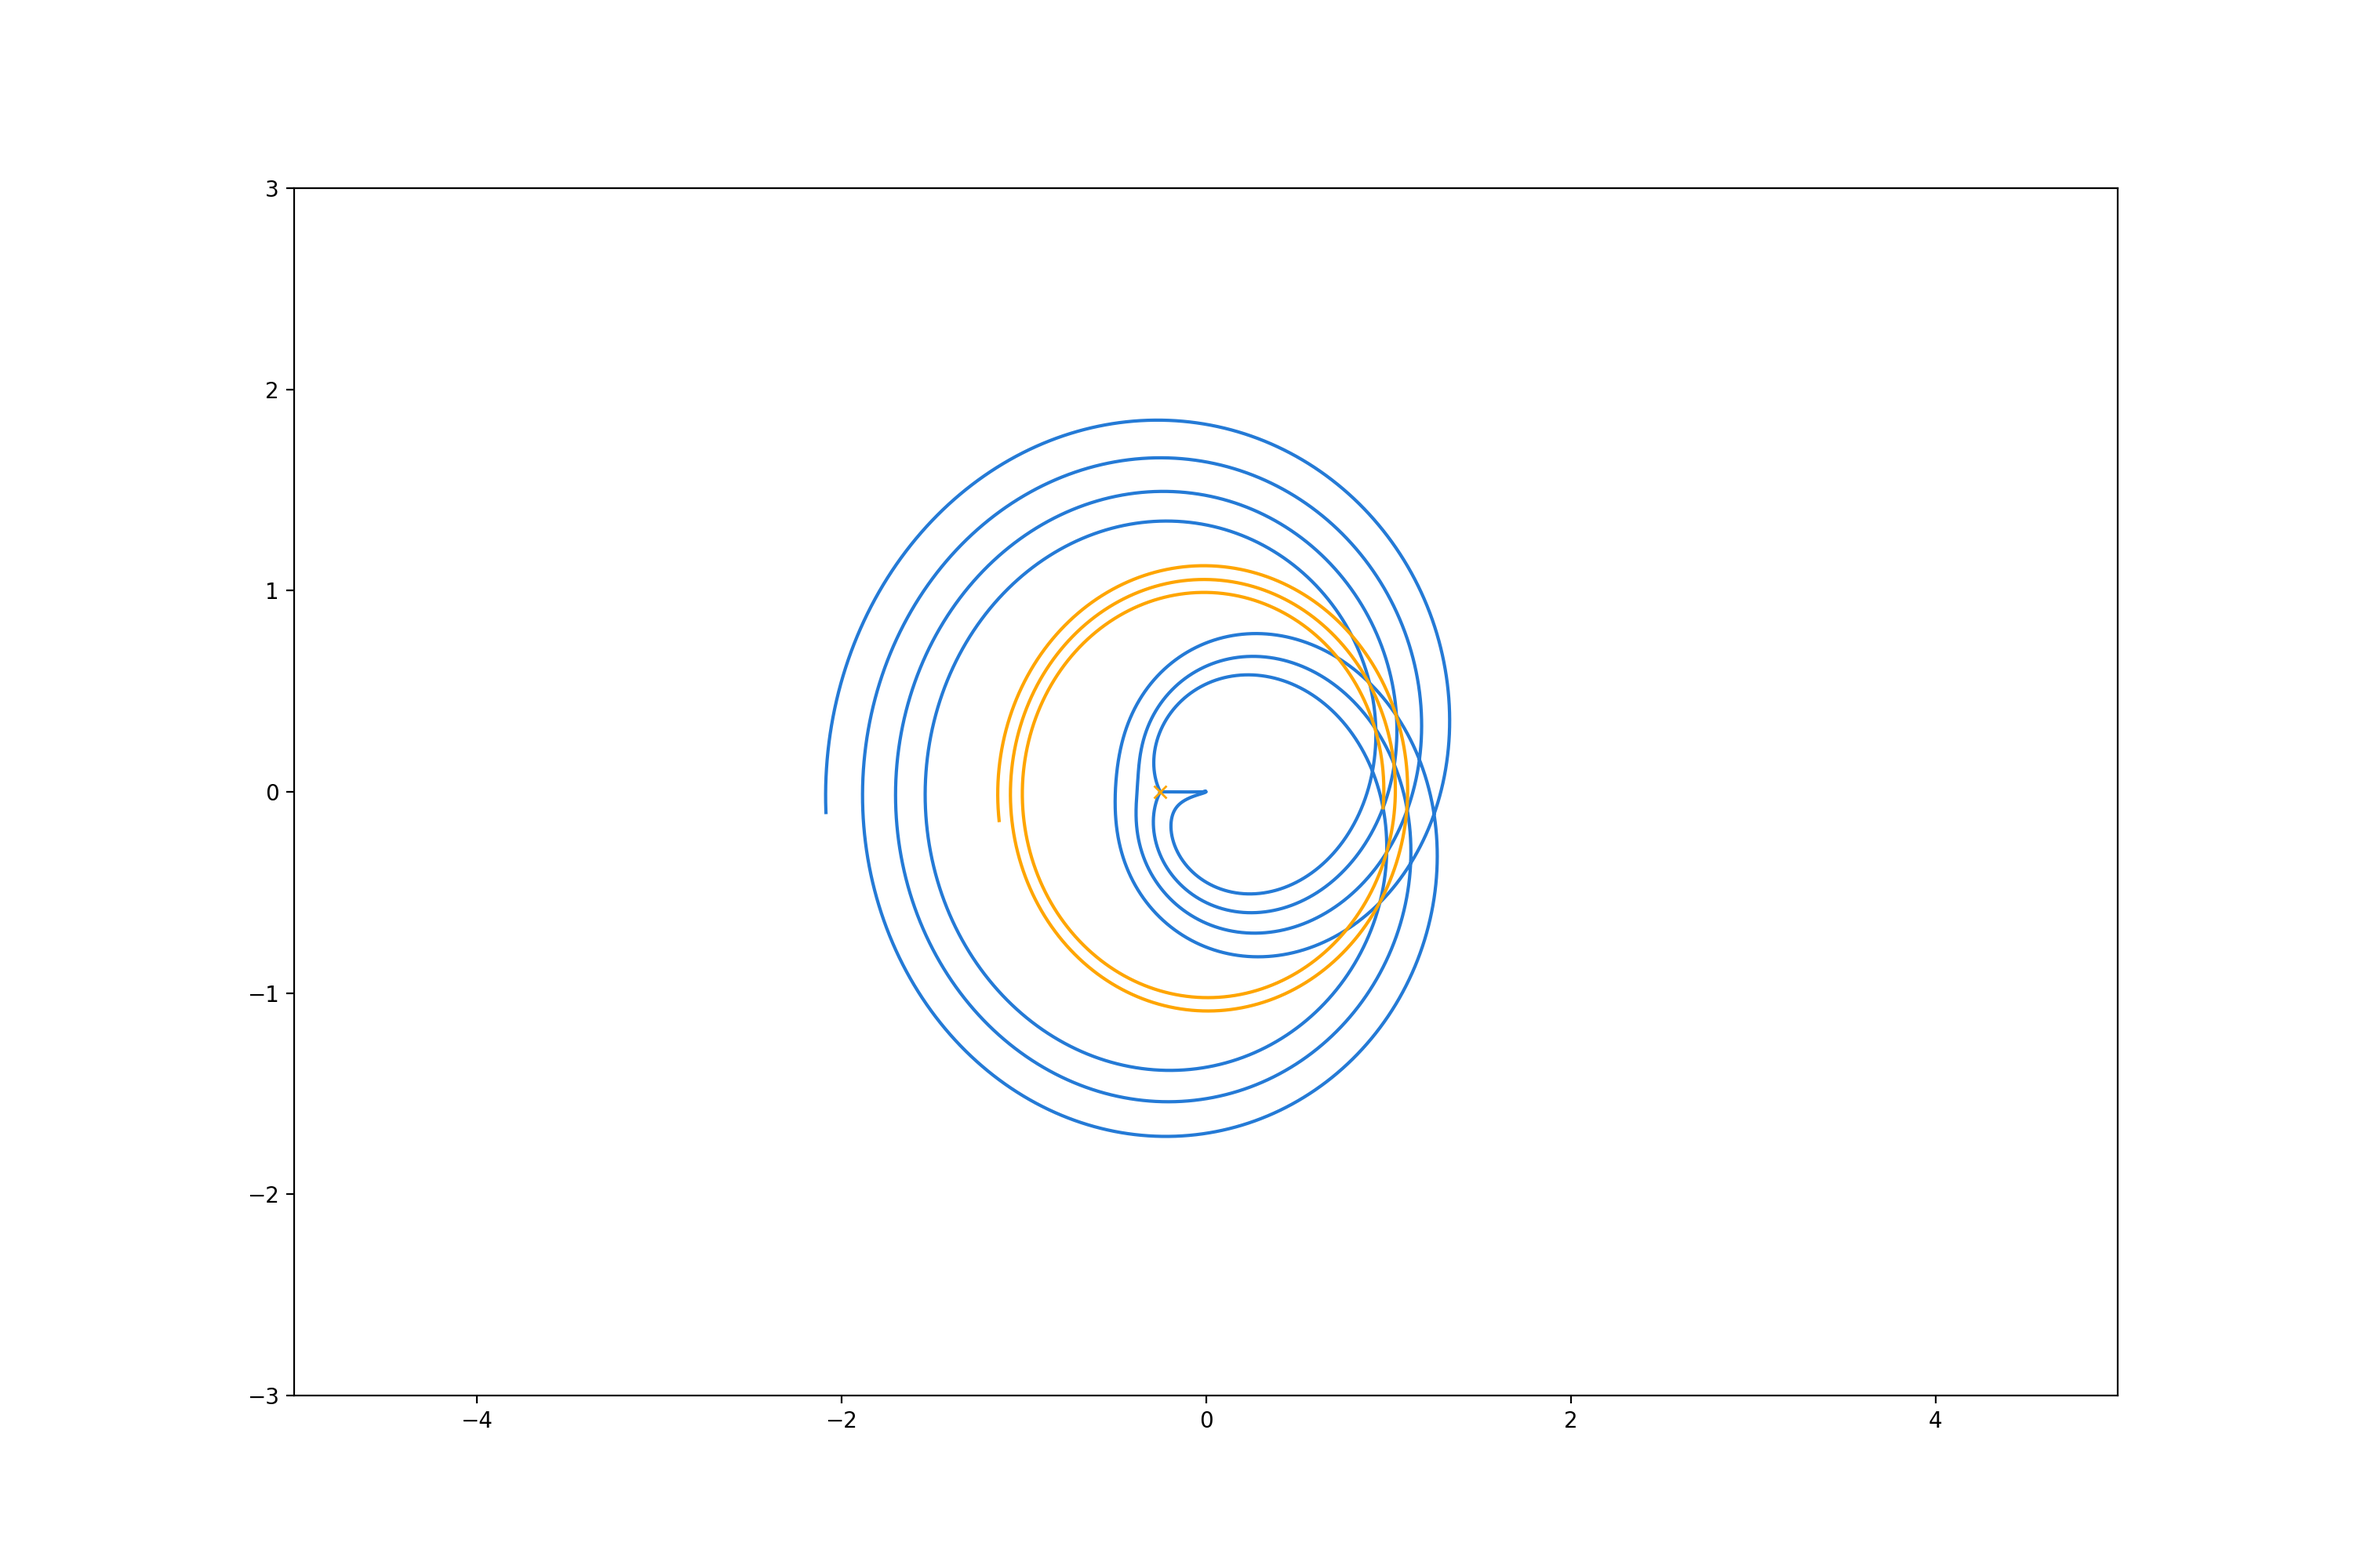
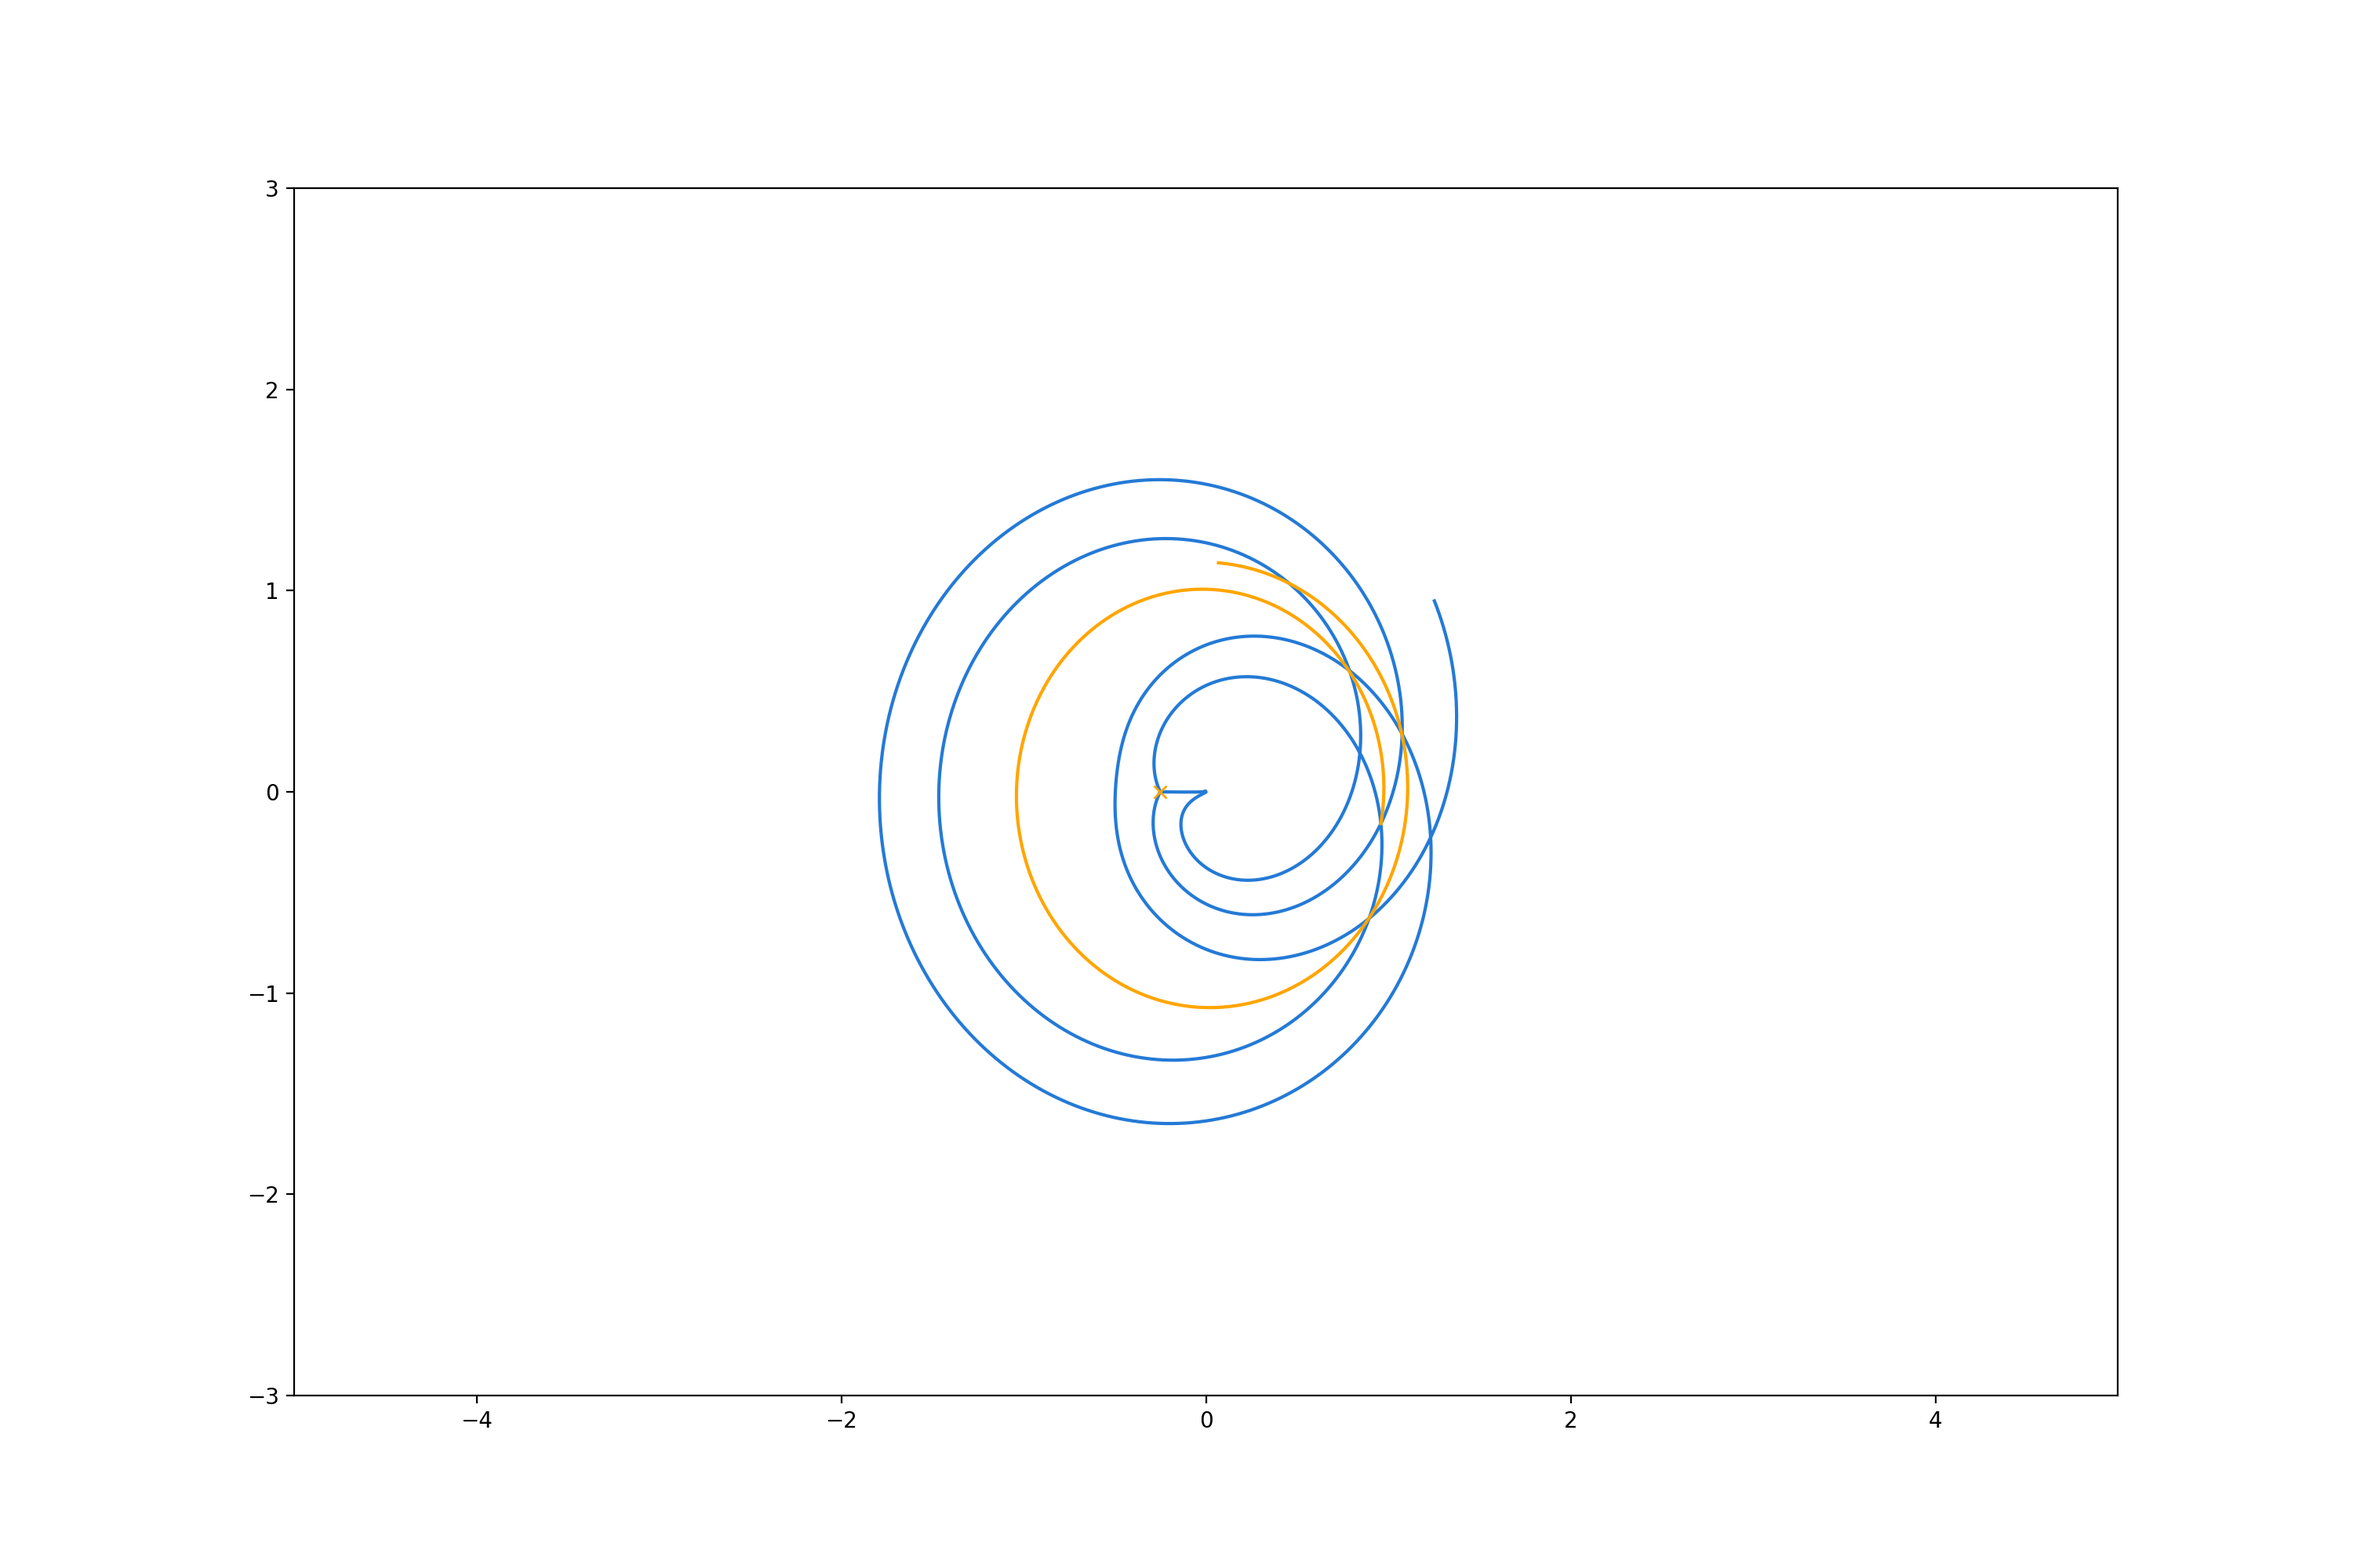
Update code

Changed region(s): [[0.341, 0.279, 0.62, 0.744], [0.465, 0.465, 0.496, 0.496]]

diff --git a/src/network.py b/src/network.py
@@ -15,6 +15,8 @@ import src.pathmap as pm
 import src.path as pth
 import src.intersection as scn
 
+import time
+
 colors = ['red','orange','green','purple', 'red', 'red', 'red']
 
 # Probably this should go somewhere else...
@@ -128,20 +130,38 @@ class network():
                 self.split = 1        
             for j in self.active_paths:
                 i = 0
-                while self.paths[j].mass[-1] < self.cutoff and self.paths[j].active:
+                t1 = 0
+                t2 = 0
+                while self.paths[j].mass[-1] < self.cutoff and self.paths[j].active and (i < steps or steps == 0):
                     if j == 0:
                         self.time.append(self.time[-1] + self.dt)
-                    if self.paths[j].active == True:
-                        self.paths[j].evolve(dt, self.curve.sw_differential, self.theta, self.expo)
-                        self.paths[j].update_map(i)
-                        i += 1
-                    if i > 100000:
+                    tic1 = time.time()
+                    self.paths[j].evolve(dt, self.curve.sw_differential, self.theta, self.expo)
+                    toc1 = time.time()
+                    t1 += toc1 - tic1
+                    tic2 = time.time()
+                    self.paths[j].update_map(i)
+                    toc2 = time.time()
+                    t2 += toc2 - tic2
+                    i += 1
+                    if i > 50000:
                         print("Terminated by steps")
                         break
+                print("path:", j)
+                print("evolve:", t1)
+                print("update:", t2)
+                tic3 = time.time()
                 for t in range(j + 1):
                     self.check_intersection(j, t)
+                toc3 = time.time()
+                t3 = toc3 - tic3
+                print("check:", t3)
+            tic4 = time.time()
             if k < gen:
                 self.create_paths()
+            toc4 = time.time()
+            t4 = toc4 - tic4
+            print("create:", t4)
 
 
     
@@ -211,6 +231,7 @@ class network():
 
 
     def create_paths(self):
+        print("In create path!")
         for s in range(len(self.intersections)):
             self.all_intersections.append(self.intersections[s])
 
@@ -266,6 +287,7 @@ class network():
                                 self.paths[-1].mass.append(0)
 
         self.intersections = []
+        print("Out create path!")
 
     def get_intersection(self, path_index, target_map, t1_range, t2_range):
         for t1 in range(t1_range[0], t1_range[1] - 1):

diff --git a/main.py b/main.py
@@ -10,12 +10,13 @@ import src.pathmap as mp
 
 # Include default libraries (ideally not much needed)
 import numpy as np
+import time
 
 # Main function
 def main():
     dt = 1e-8
-    theta = -0.8
-    cutoff = 1000
+    theta = -0.02
+    cutoff = 100000
     expo_net = nw.network(sw.H_c3, dt, theta, cutoff, expo=True)
     print(expo_net.pts)
     expo_net.start_paths()
@@ -35,4 +36,7 @@ def main():
         print(expo_net.paths[j].mass[-1])
 
 if __name__ == '__main__':
+    tic = time.time()
     main()
+    toc = time.time()
+    print("Total time:", toc - tic)
